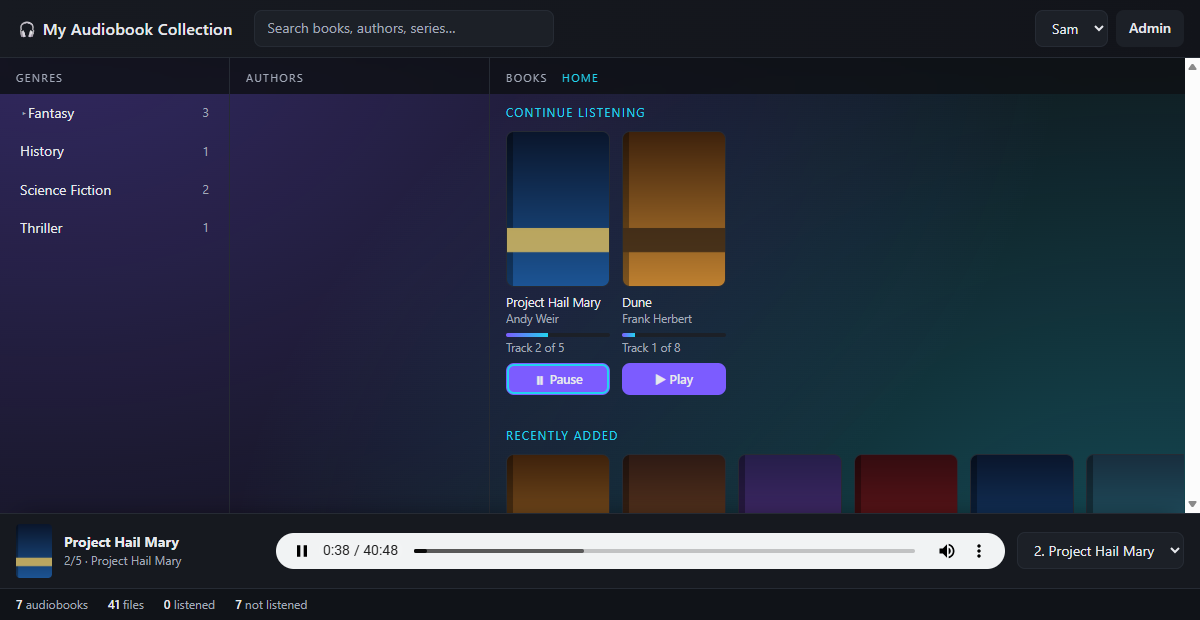
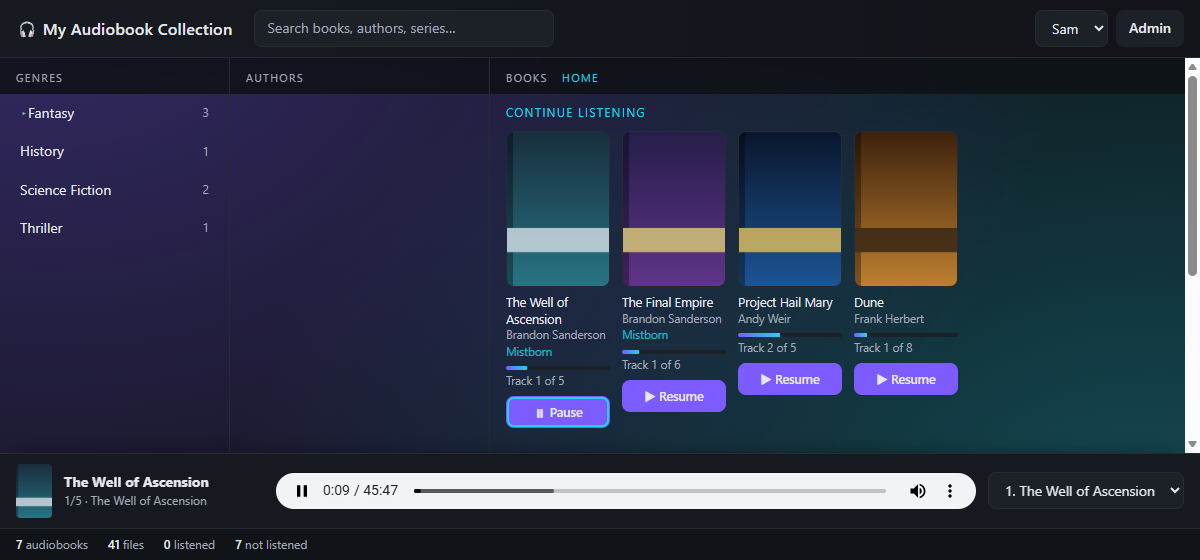
A place kept in a book is a Resume, loaded or not
After a reload the shelf said Play, because the label only knew about the book
loaded in the player and a reload loads none. But every book on Continue listening
is one you are in the middle of — that is what the shelf is — so its button now
says Resume from the start, and a card says Resume whenever the book has a place
kept in it. Play is left for a book nobody has started.

The button carries data-resume, so markPlaying can tell the two apart without
asking the server again, and a button that has been the playing one is marked as
well: it stays a Resume when another book takes over.

diff --git a/public/app.js b/public/app.js
@@ -149,7 +149,7 @@ const tile = (b, resumable) => {
     ${b.series ? `<div class="a series-of">${esc(b.series)}${b.series_no ? ' · book ' + b.series_no : ''}</div>` : ''}
     ${resumable ? `<div class="tbar"><div style="width:${pct}%"></div></div>
       <div class="a">${b.done ? 'Listened' : `Track ${at} of ${b.tracks}`}</div>
-      <button class="tplay" data-play="${b.id}">▶ Play</button>` : ''}
+      <button class="tplay" data-play="${b.id}" data-resume="1">▶ Resume</button>` : ''}
   </div>`;
 };
 
@@ -309,7 +309,7 @@ async function drawBooks(books, heading, kind = 'Series') {
         <div class="desc">${esc(b.description) || 'No description.'}</div>
       </div>
       <div class="actions">
-        <button onclick="playBook(${b.id})">▶ Play</button>
+        <button onclick="playBook(${b.id})" data-resume="${b.started || b.done ? 1 : 0}">${b.started || b.done ? '▶ Resume' : '▶ Play'}</button>
         <button class="ghost" onclick="findMeta(${b.id})">Find metadata</button>
         <button class="ghost" onclick="writeTags(${b.id}, this)">Write into MP3s</button>
         <button class="ghost" onclick="editMeta(${b.id})">Edit metadata</button>
@@ -393,8 +393,17 @@ function markPlaying() {
   const playing = state.book ? state.book.id : 0;
   const label = (button, id) => {
     const mine = id === playing;
-    button.textContent = mine ? (audio.paused ? '▶ Resume' : '⏸ Pause') : '▶ Play';
+    // a book with a place kept in it is resumed, whether or not it is the one
+    // loaded in the player: after a reload nothing is loaded, and the shelf still
+    // means "carry on with this"
+    const kept = button.dataset.resume === '1';
+    button.textContent = mine
+      ? (audio.paused ? '▶ Resume' : '⏸ Pause')
+      : (kept ? '▶ Resume' : '▶ Play');
     button.classList.toggle('playing', mine && !audio.paused);
+    // it has a place kept in it from now on, so it stays a Resume when another
+    // book takes over
+    if (mine) button.dataset.resume = '1';
   };
   document.querySelectorAll('#books .card .actions button[onclick^="playBook"]').forEach((b) => {
     label(b, Number(b.getAttribute('onclick').match(/\d+/)[0]));

diff --git a/public/listen.js b/public/listen.js
@@ -87,7 +87,7 @@ const tile = (b, resumable) => {
     ${b.series ? `<div class="a series-of">${esc(b.series)}${b.series_no ? ' · book ' + b.series_no : ''}</div>` : ''}
     ${resumable ? `<div class="tbar"><div style="width:${pct}%"></div></div>
       <div class="a">${b.done ? 'Listened' : `Track ${at} of ${b.tracks}`}</div>
-      <button class="tplay" data-play="${b.id}">▶ Play</button>` : ''}
+      <button class="tplay" data-play="${b.id}" data-resume="1">▶ Resume</button>` : ''}
   </div>`;
 };
 
@@ -229,7 +229,7 @@ function drawBooks(books, heading, kind = 'Series') {
         </div>
         <div class="desc">${esc(b.description) || 'No description.'}</div>
       </div>
-      <div class="actions"><button onclick="playBook(${b.id})">▶ Play</button></div>
+      <div class="actions"><button onclick="playBook(${b.id})" data-resume="${b.started || b.done ? 1 : 0}">${b.started || b.done ? '▶ Resume' : '▶ Play'}</button></div>
     </div>`;
   }
   $('#books .list').innerHTML = html || '<div class="empty">No books.</div>';
@@ -321,8 +321,17 @@ function markPlaying() {
   const playing = state.book ? state.book.id : 0;
   const label = (button, id) => {
     const mine = id === playing;
-    button.textContent = mine ? (audio.paused ? '▶ Resume' : '⏸ Pause') : '▶ Play';
+    // a book with a place kept in it is resumed, whether or not it is the one
+    // loaded in the player: after a reload nothing is loaded, and the shelf still
+    // means "carry on with this"
+    const kept = button.dataset.resume === '1';
+    button.textContent = mine
+      ? (audio.paused ? '▶ Resume' : '⏸ Pause')
+      : (kept ? '▶ Resume' : '▶ Play');
     button.classList.toggle('playing', mine && !audio.paused);
+    // it has a place kept in it from now on, so it stays a Resume when another
+    // book takes over
+    if (mine) button.dataset.resume = '1';
   };
   document.querySelectorAll('#books .card .actions button[onclick^="playBook"]').forEach((b) => {
     label(b, Number(b.getAttribute('onclick').match(/\d+/)[0]));

diff --git a/docs/SPEC.md b/docs/SPEC.md
@@ -1,6 +1,6 @@
 # My Audiobook Collection — build specification
 
-**Version described: 1.9.32.** This document describes what the app is, how every
+**Version described: 1.9.40.** This document describes what the app is, how every
 part of it behaves, and the decisions and traps behind those behaviours. It is
 written to be handed back to an assistant later as the sole brief for rebuilding
 the app.
@@ -14,7 +14,7 @@ itself — wording of comments, order of small helpers, exact CSS values. Nothin
 in the spec depends on those.
 
 If you want a literal reproduction, keep the repository as well: this document
-plus `https://github.com/Starf0x/my-audiobook-collection` at tag `v1.9.32` is an
+plus `https://github.com/Starf0x/my-audiobook-collection` at tag `v1.9.40` is an
 exact answer. This document alone is a faithful one, and it is the part that
 carries the *reasoning* the code cannot show — every rule in §9 is there because
 something went wrong without it.
@@ -774,11 +774,18 @@ breath.
 
 The toggle itself: `playBook(id)` pauses or resumes
 when `state.book.id === id` and starts the book otherwise, so the button that
-started it is the one that stops it. `markPlaying()` writes the label — *▶ Play*,
-*⏸ Pause*, *▶ Resume* — and a `.playing` ring on every card button and every tile
-button, from the `play`, `pause` and `ended` events and at the end of
-`drawBooks` and `loadHome`, so a redraw does not forget which book is playing. The `onclick` attribute stays `playBook(...)`, because the
-stylesheet and the tests find the play button by it.
+started it is the one that stops it. `markPlaying()` writes the label and a `.playing` ring on every card button and
+every tile button. The label is *⏸ Pause* for the book that is playing, *▶ Resume*
+for the book that is loaded but paused **and** for any button marked
+`data-resume="1"` — a shelf tile always, a card when the book has
+`started` or `done` — and *▶ Play* only for a book with no place kept in it. That
+distinction is what makes a reload keep saying *Resume*: nothing is loaded in the
+player then, but the shelf still means "carry on with this". A button that has been
+the playing one is marked `data-resume` too, so it stays a *Resume* when another
+book takes over. It runs from the `play`, `pause` and `ended` events and at the
+end of `drawBooks` and `loadHome`, so a redraw does not forget which book is
+playing. The `onclick` attribute stays `playBook(...)`, because the stylesheet and
+the tests find the play button by it.
 
 **Maintenance lists** (admin page, `body.maintenance`): *Needs tags* (what a write
 can fix now versus what needs a lookup), *Broken on disk*, *Import* (ten per
@@ -879,7 +886,7 @@ Server suites:
 | `one-writer` | two different books at once are both written; the same book twice is refused with a reason; counts never run past their own totals |
 | `two-writes` | a long write and a short one from another series side by side, each reporting its own total under its own book; the same book refused; the whole-collection run refused while they run, and starting once they are done |
 | `phone-ui` | at 390×844 with touch: one column at a time, the steps through and back with their named buttons, nothing wider than the screen, a 16px field, thumb-sized rows, the short tag badge, a dialog filling the screen — and all three columns back on a wide screen with the stepping buttons hidden |
-| `tile-play` | on both pages and at phone width: every Continue listening tile has a play button under its progress and the Recently added tiles none; it starts the book and becomes its Pause; pressing again Resumes; the other tile takes the pause with it; the tile behind the button does not answer the same tap; the cover still plays |
+| `tile-play` | on both pages and at phone width: every Continue listening tile has a button under its progress reading *Resume* — after a page reload as well — and the Recently added tiles none; it starts the book and becomes its Pause; pressing again Resumes; the other tile takes the pause with it; the tile behind the button does not answer the same tap; the cover still plays |
 | `play-pause` | the card that is playing offers Pause, pressing it again Resume, and once more carries on; starting another book moves the pause to it; a redraw of the list remembers which book is playing |
 | `two-writes-ui` | pressing one book's *Write into MP3s* greys that button and the file-moving ones, leaves the other books' write buttons alive, and gives each write its own named bar |
 | `tagall-test` | the resumable run: paused across a restart, resumed to completion, every file written once, a fresh run starting over, a `running` row settled to `paused` at startup |
@@ -941,6 +948,7 @@ to insert order and looks broken when the app is right.
 | 1.9.16 | two books, or two series, can have their tags written at the same time |
 | 1.9.24 | a layout for phones, and Play becomes Pause on the card it started |
 | 1.9.32 | a play button on every Continue listening tile |
+| 1.9.40 | a book with a place kept in it says Resume, not Play |
 
 Earlier in the 1.8 line: series from three sources, collapsible genres, one
 progress bar per job, the resumable whole-collection tag write, the disk check and

diff --git a/README.md b/README.md
@@ -225,14 +225,17 @@ name that others do not know.
 
 ![The Continue listening shelf, one book playing](https://raw.githubusercontent.com/Starf0x/my-audiobook-collection/main/docs/shelf.png)
 
-Every book on the **Continue listening** shelf carries its own play button under
-the track it is on, so carrying on with the last thing you were listening to is
-one press from the page you land on. Tapping the cover still does the same.
+Every book on the **Continue listening** shelf carries its own button under the
+track it is on, and since those are the books you are in the middle of it reads
+**▶ Resume** — a place kept is a place to carry on from, whether or not anything
+is loaded in the player, so a reload does not turn it back into *Play*. Tapping
+the cover does the same as pressing it.
 
-**▶ Play** on a card starts the book where you left it and opens the player at the
-bottom of the page. That same button then reads **⏸ Pause**, with a ring around it,
-because it is the one that stops the book it started; pressing it again reads
-**▶ Resume** and carries on. Every other card and tile still says *Play*, and
+On a card the button says what pressing it will do: **▶ Play** for a book you have
+not started, **▶ Resume** for one with a place kept in it. Either way it opens the
+player at the bottom of the page, and that same button then reads **⏸ Pause**,
+with a ring around it, because it is the one that stops the book it started;
+pressing it again reads **▶ Resume** and carries on. Every other card and tile still says *Play*, and
 pressing one of those moves the pause to that book. Which book is playing survives a redraw of
 the list, so browsing away and back does not lose it.
 
